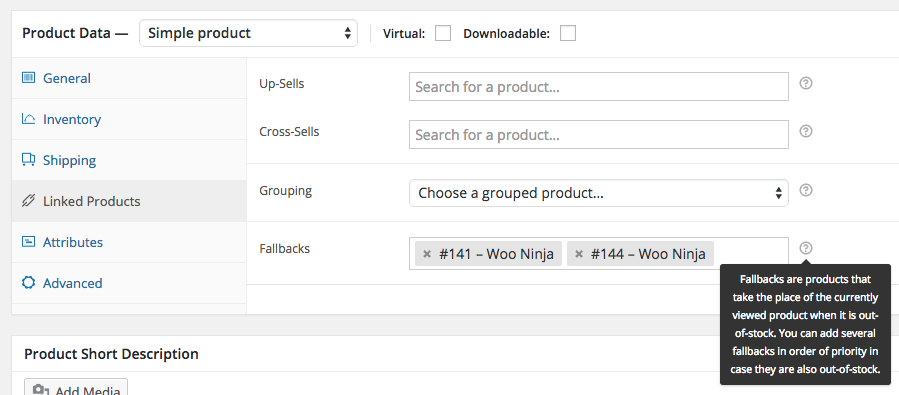
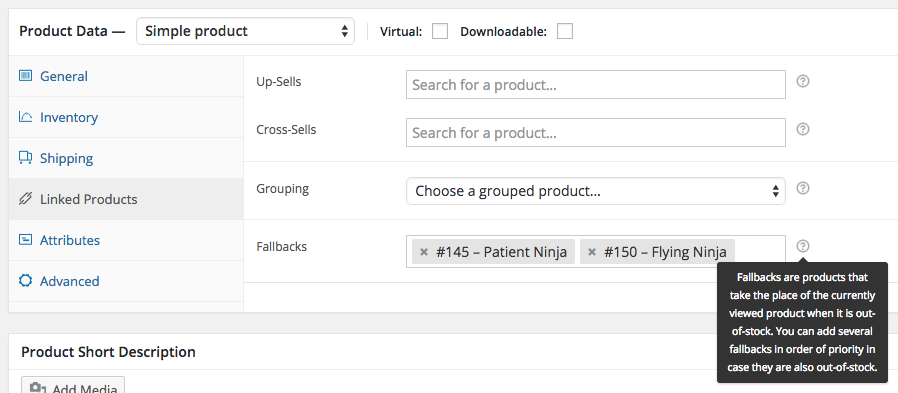
Adding second screenshot

diff --git a/readme.md b/readme.md
@@ -24,9 +24,13 @@ This is the answer.
 
 ## Screenshots ##
 
-### Add product fallbacks in order of priority from the Linked Products tab.
+### List product fallbacks in order of priority from the Linked Products tab.
 
-![Add product fallbacks in order of priority from the Linked Products tab.](assets/screenshot-1.png)
+![List product fallbacks in order of priority from the Linked Products tab.](assets/screenshot-1.png)
+
+### When products are out-of-stock they are automatically replaced by their fallback product.
+
+![When products are out-of-stock they are automatically replaced by their fallback product.](assets/screenshot-2.png)
 
 ## Changelog ##
 
